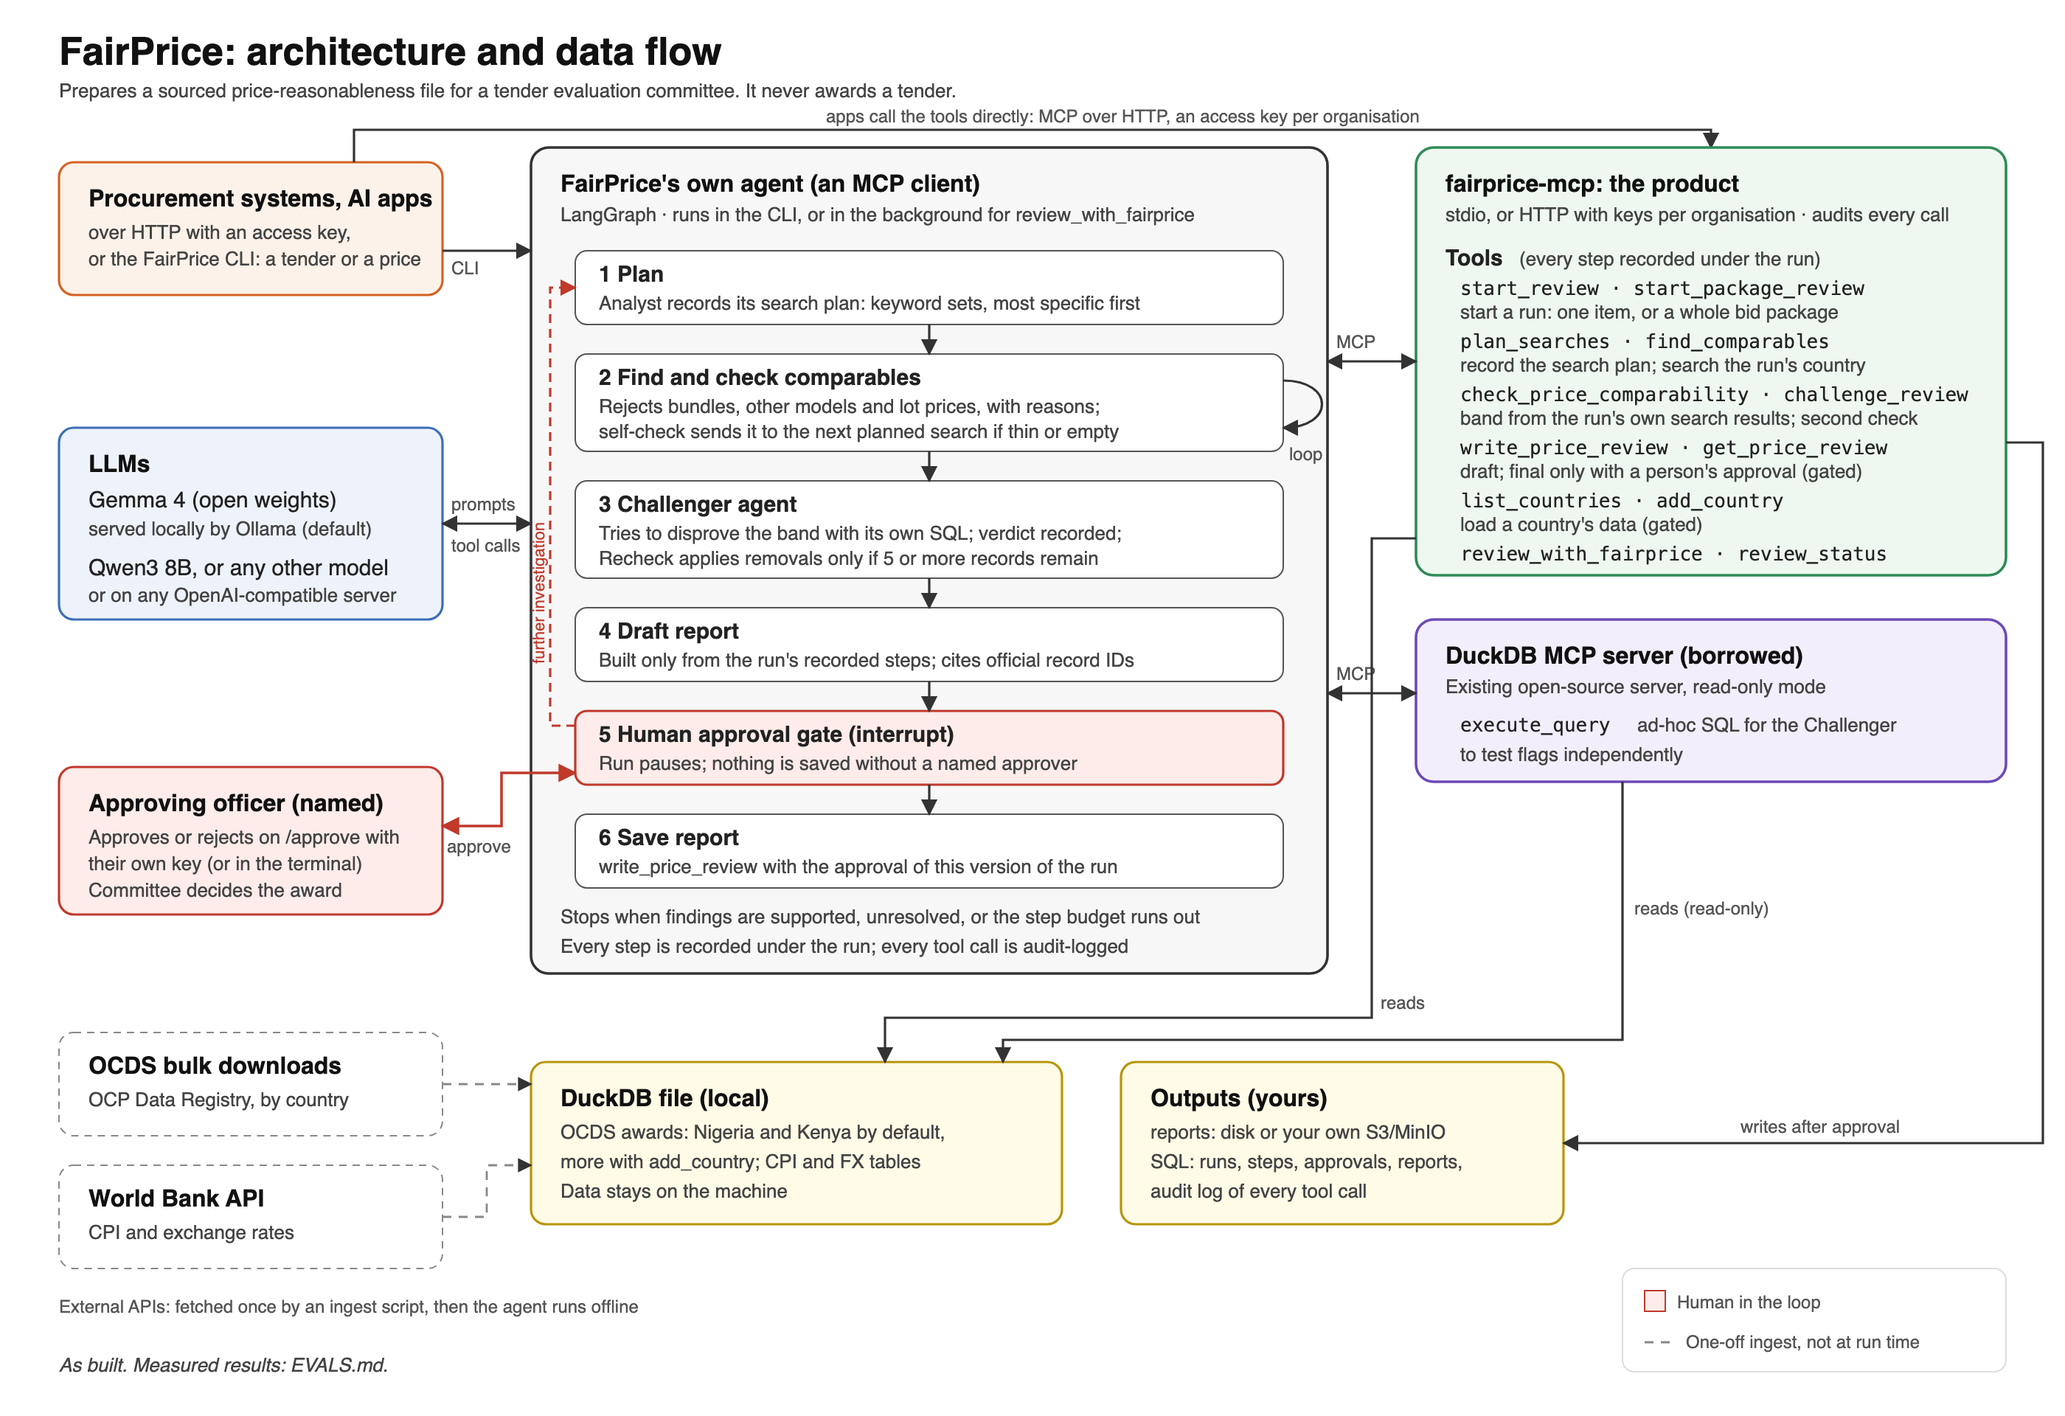
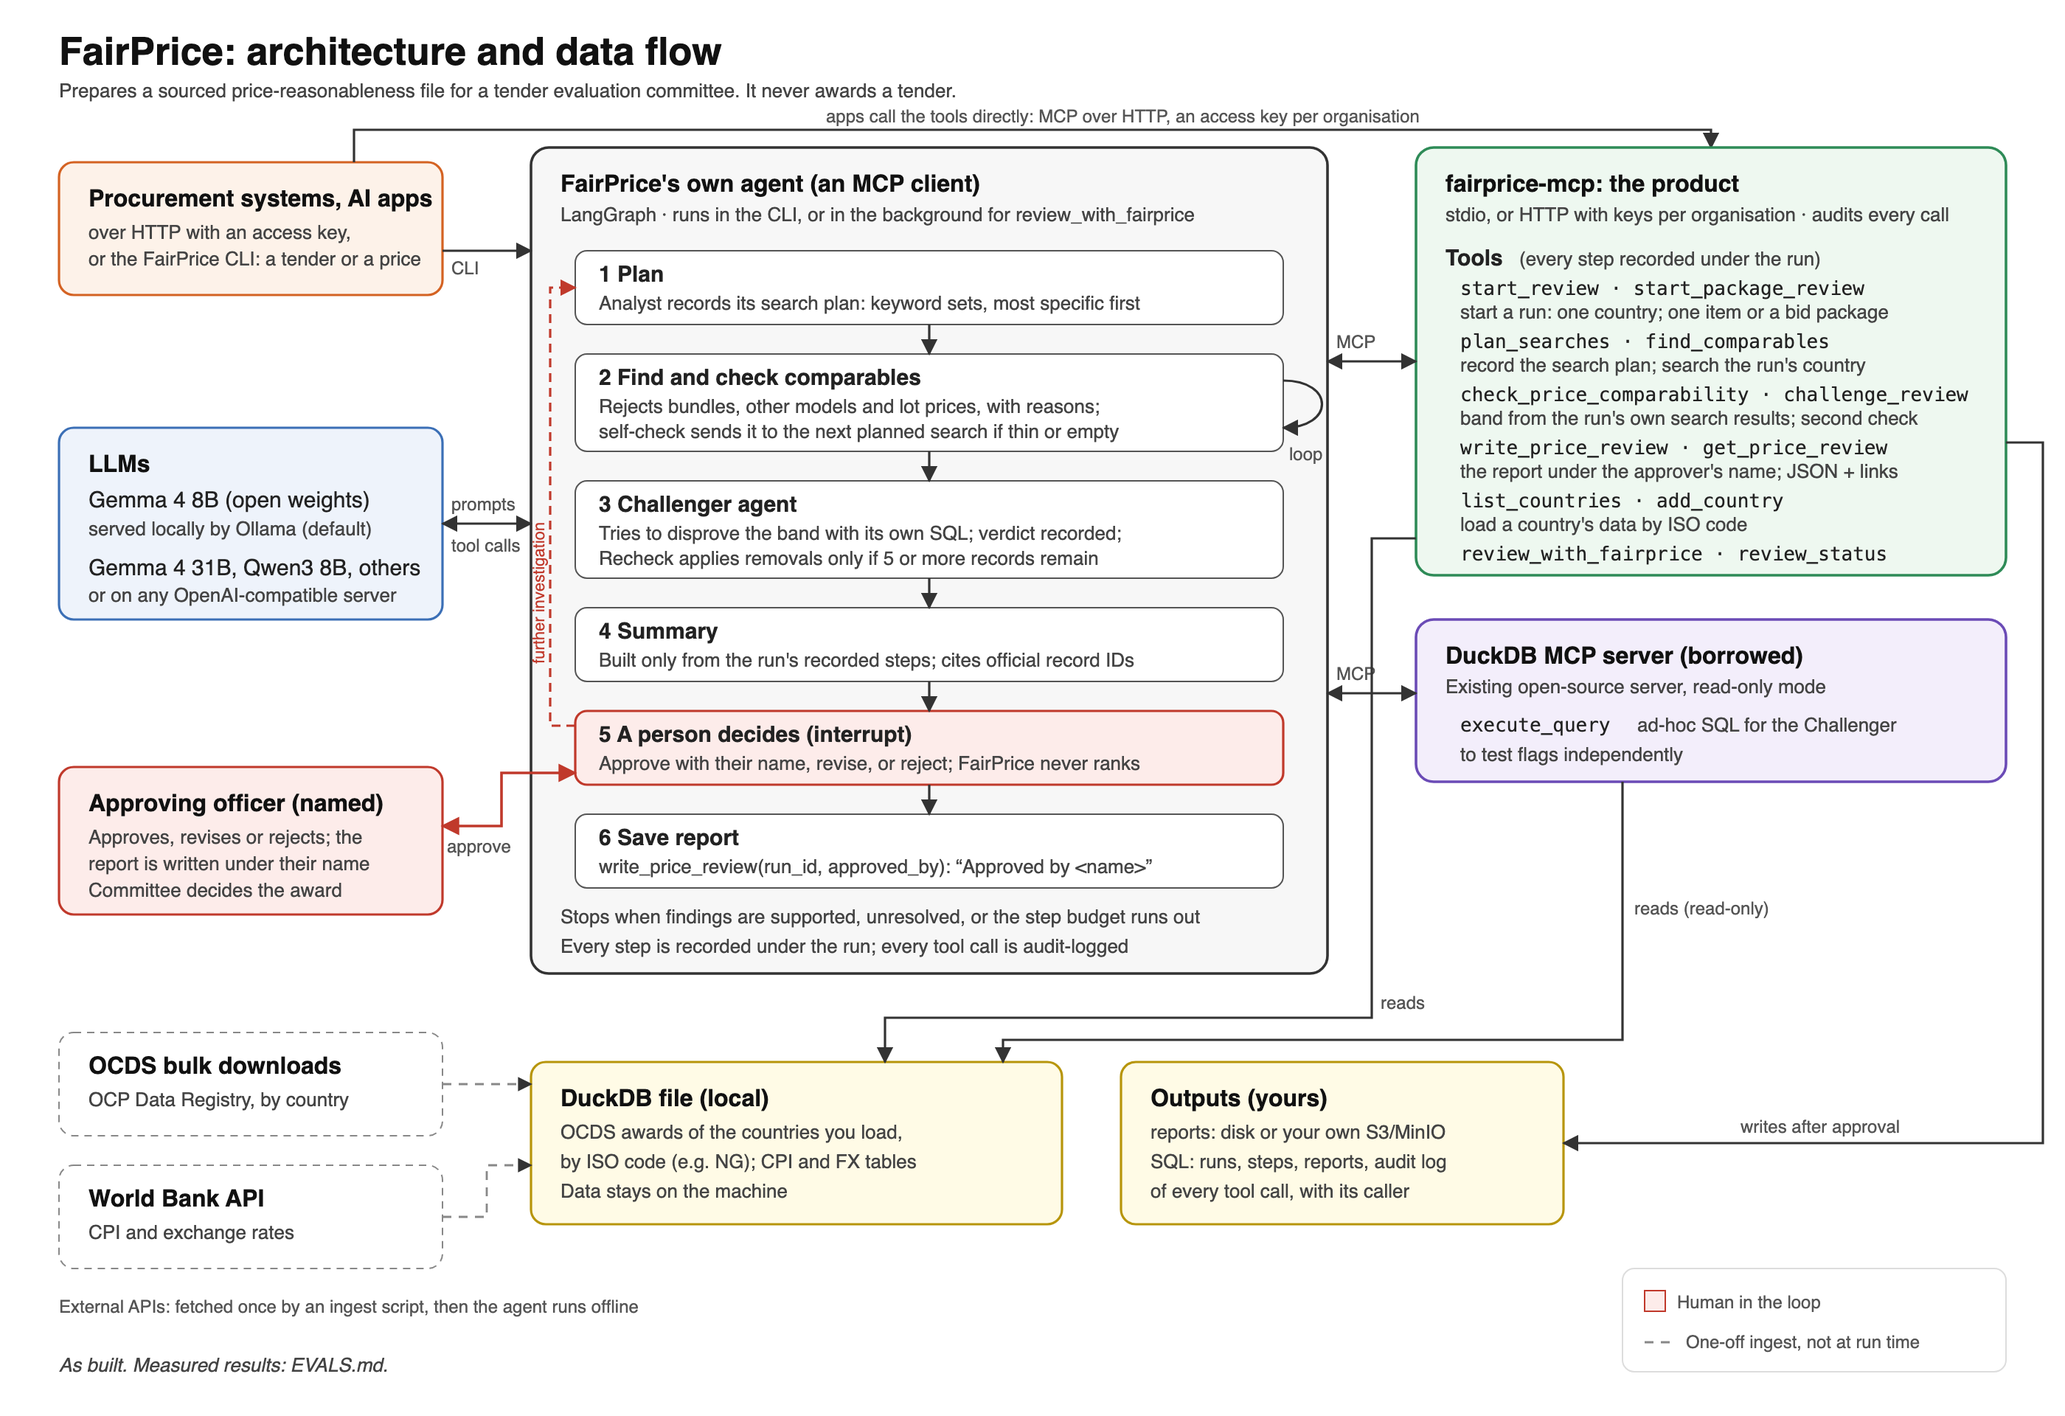
ARCHITECTURE and diagram: bring them up to date with the code
One country per run; searches over every year; 'nothing comparable' as a recorded result; the
final merged check; how a run's cost is priced; loading countries by code; the three-model
comparison with each model's size; the current approval flow (no drafts, approval page or
approver keys); the borrowed server's log file.

diff --git a/ARCHITECTURE.md b/ARCHITECTURE.md
@@ -6,10 +6,12 @@
 
 A LangGraph state graph with six nodes. Every review is one **run** (see [Runs](#runs-one-review-across-many-tool-calls)): the tools record each step under the run's id, and the report is built only from those records. LangGraph's own state is checkpointed in SQLite (`data/runs.sqlite`), so a run paused at the person's decision can be resumed later with `--resume <run id>`.
 
+**One country per run.** A run compares prices against one country's published awards, in that country's currency unless a quote says otherwise. The CLI asks which of the loaded countries to use, with the same arrow-key menu as the decision (or takes `--country`, or uses the only one loaded), and prints it: `Country: Nigeria (NG) · prices in NGN`. An app that names no country gets `FAIRPRICE_COUNTRY`, else the first country loaded.
+
 | Node | What it does | Model? |
 |---|---|---|
-| **Analyst** | First records a search plan (`plan_searches`): the keyword sets it will try, most specific first. Then searches past awards, decides which records describe the same product, rejects bundles, lot prices and different specifications with a reason, and moves to the next planned search when a search is empty or thin. | Yes |
-| **Self-check** (inside Analyst) | Sends the Analyst back if it did not plan, ran a search it never price-checked, found nothing, or stopped with a thin band or too few comparables; each time it names the next search in the Analyst's own plan. Then merges every record it kept across all checks into one final check. | No |
+| **Analyst** | First records a search plan (`plan_searches`): the keyword sets it will try, most specific first. Then searches past awards of every year (it is not offered year limits: past prices are adjusted for inflation, so all years are comparable), decides which records describe the same product, rejects bundles, lot prices and different specifications with a reason, and moves to the next planned search when a search is empty or thin. | Yes |
+| **Self-check** (inside Analyst) | Sends the Analyst back if it did not plan, ran a search it never price-checked, found nothing, or stopped with a thin band or too few comparables; each time it names the next search in the Analyst's own plan. Then makes one final price check itself, with every record the Analyst kept and every record it rejected across all its checks, so an earlier pick is never lost and a rejected record never returns. With a single check this repeats it, which is why a log can show `check_price_comparability` twice. | No |
 | **Challenger** | A second agent, with different tools, that tries to disprove the band using its own SQL. It names records to remove and gives a verdict: STANDS or DISPUTED, recorded in the run with `challenge_review`. | Yes |
 | **Recheck** | Rebuilds the band without the records the Challenger removed. | No |
 | **Summary** | Builds the summary a person reads (`report.py`) from the run's recorded steps. | No |
@@ -56,7 +58,8 @@ Everything a review needs is behind the server, so it can be deployed as a web s
 
 `start_review` (one item and its quoted price) or `start_package_review` (a bid package as JSON) creates a run and returns its `run_id`. Every other step takes that id and is recorded in the `run_steps` table: the plan, each search (its keywords and the record ids it returned), each price check (the ids judged comparable, the ids rejected with reasons, and the tool's full result), the second check, and the run's cost. A caller passes only judgements, never facts:
 
-- `check_price_comparability(run_id, candidate_ids, rejected)`: the quoted price, currency, year and country come from the run, not the caller. Ids the run's own searches never returned are left out of the band and named in the answer (`left_out`), so every record in a band was found by a recorded search, and one mistyped id does not throw away the rest (round 9).
+- `check_price_comparability(run_id, candidate_ids, rejected)`: the quoted price, currency, year and country come from the run, not the caller. Ids the run's own searches never returned are left out of the band and named in the answer (`left_out`), so every record in a band was found by a recorded search, and one mistyped id does not throw away the rest (round 9). The tool then applies the data rules itself (placeholder dates, test entries, multi-item contracts, missing quantities, values of zero or below 1, duplicates, values more than 10 times from the median), whatever the caller sent, adjusts for inflation and currency, and builds the band.
+- **"Nothing here is comparable" is a result.** A caller that rejects every record its searches found sends `candidate_ids=[]` with each record and its reason in `rejected`; the review records "insufficient comparables: 0 accepted" with those reasons, rather than ending unresolved (found by Gemma 4 31B on the MRI scanner).
 - `challenge_review(run_id, verdict, reason, objections)`: objections must name records in the line's band.
 - `write_price_review(run_id, approved_by)`: no report body is passed in. The tool builds the report from the run's steps, checks that every cited record exists, and writes it under the approver's name.
 
@@ -71,7 +74,7 @@ Where each part of agent behaviour lives, and the eval round that showed why it 
 | **Plan** | Analyst → `plan_searches` | Before searching, the Analyst records the keyword sets it will try, most specific first, and what it will reject. The plan is stored in the run and shown in the report for each line. | Round 8: whole-phrase searches found nothing and runs ended unresolved; the plan gives the recovery a next step that is the model's own. |
 | **Act** | `find_comparables`, `check_price_comparability`, and the Challenger's `execute_query` | Search, judge comparability, build the band. Code adjusts prices for inflation and currency and computes the band; the model only judges which records are the same product. | Rounds 0 to 8. |
 | **Check** | Self-check (code), Challenger (second model, different tools), Recheck (code) | The self-check refuses to finish an unchecked or thin result. The Challenger tries to disprove the band with its own SQL. Recheck applies its removals only if at least 5 records remain; otherwise they are shown as objections. | Round 1 (Challenger over-removed), round 2 (thin band from one search). |
-| **Recover** | Self-check messages; step budgets; failed-line isolation | An empty, thin or insufficient search sends the Analyst to the next search in its plan (or a one-word search if the plan is used up). Step budgets end a stuck agent as `unresolved` instead of looping. One failed package line is reported and the rest continue. Every model call has a 10-minute timeout. | Round 0 (loops), round 4 (crashed run), round 6 (a recovery message that steered to the brand), round 8 (empty searches). |
+| **Recover** | Self-check messages; step budgets; failed-line isolation; no year limits | An empty, thin or insufficient search sends the Analyst to the next search in its plan (or a one-word search if the plan is used up). Step budgets end a stuck agent as `unresolved` instead of looping. One failed package line is reported and the rest continue. Every model call has a 10-minute timeout. The Analyst's search has no year limits, because a model that narrowed every search to the review's year could not recover. | Round 0 (loops), round 4 (crashed run), round 6 (a recovery message that steered to the brand), round 8 (empty searches); a 15 October run in which Gemma 4 8B searched 2025 only and found 3 of 64 Hilux records, none usable. |
 | **Human** | The person's decision (`interrupt`); `write_price_review(approved_by)` | FairPrice never ranks, recommends or decides: it produces evidence. A person reads the summary and approves (the report is written under their name), revises (questions back to the Analyst) or rejects (nothing is written). | Every round. |
 
 **The search no longer depends on how the model groups words.** `find_comparables` matches every word of the keywords in any order, so `["hilux pickup"]`, `["pickup", "hilux"]` and `["Pickup Hilux"]` are the same search (round 8's failure).
@@ -81,6 +84,8 @@ Where each part of agent behaviour lives, and the eval round that showed why it 
 ## Data
 
 `fairprice-ingest` downloads OCDS publications from the OCP Data Registry, loads the raw JSON into DuckDB unchanged (`releases`), and flattens them into one `lines` table. It also fetches the World Bank consumer price index (`FP.CPI.TOTL`) and exchange rates (`PA.NUS.FCRF`) for every loaded country. After that, the agent runs offline.
+
+**Nothing is loaded until a country is chosen.** The ingest always takes a country code (`fairprice-ingest --add NG`; `--list` shows all 72 countries on the registry and their codes; `--rebuild` rebuilds from the files already downloaded), and a run with no country loaded stops with that instruction instead of downloading anything.
 
 **Adding a country** (`fairprice-ingest --add RW`, or the MCP tool `add_country`) loads every publication the country has on the registry. The registry has no API, so the ingest reads its search page, where each publication has a flag image named with its ISO country code, a "Country: Publisher" title and an id. A country's publications are downloaded unchanged and joined end to end into one file per country (`data/raw/nigeria.jsonl.gz`); joined gzip files read back as one. `data/raw/manifest.json` records which publications each file holds and in what order, so a rebuild needs no network. Records are told apart by their OCID prefix, which each publisher registers once (`ocds-gyl66f` is the federal BPP, `ocds-zinqhl` is Ebonyi State). The `sources` table records each publication's registry title (used as "Published by" in reports), its currency (the most common currency in its awards), and how it is read:
 
@@ -103,20 +108,30 @@ Where each part of agent behaviour lives, and the eval round that showed why it 
 
 The brief says the data will not be cleaned for us, and that handling it is most of criterion one. FairPrice uses the data as published and handles each problem in code, with a reason the committee can read. The table of problems, how often each occurs in the Nigerian and Kenyan data, and what FairPrice does is in the README: [Data quality](README.md#data-quality-what-the-published-data-gets-wrong-and-what-fairprice-does). In code: `server.data_flags` (record flags), `server.price_band` (duplicates, extreme values, inflation and currency), `ingest.TABLES_SQL` (buyer names).
 
-
-
 ## Models
 
-The default is **Gemma 4 8B** (open weights) through Ollama, run locally with thinking mode off and a 4,096-token output cap. We started with Qwen3 8B, as planned, but switched after the evals. On the same code, Gemma 4 passed 17 of 18 single-item runs at about 2 minutes each. Qwen3 8B passed 12 of 18, kept letting bundles into the band, and averaged 6 minutes per run. On the latest code (round 7), Gemma 4 passes 16 of 18 single-item runs and 2 of 2 bid-package runs; the two failures kept a Prado-and-Hilux bundle in the band with the right verdict (EVALS.md). With thinking on, at temperature 0, Qwen3 once looped for over an hour before its first tool call. Any model that `langchain.init_chat_model` supports can be swapped in with `FAIRPRICE_MODEL`.
+The default is **Gemma 4 8B** (open weights) through Ollama, run on the buyer's own machine with thinking mode off and a 4,096-token output cap: no fees, and no bid prices leave the machine. Any model that `langchain.init_chat_model` supports can be swapped in with `FAIRPRICE_MODEL`, including any OpenAI-compatible server (`FAIRPRICE_MODEL_URL`), such as OpenRouter.
+
+We evaluated three open-weights models on the same tasks ([EVALS.md](EVALS.md#three-models-on-the-same-tasks)):
+
+| Model | Single items | Bid package | Time per item | Cost per round |
+|---|---|---|---|---|
+| Gemma 4 31B (OpenRouter) | 17/18 | 1/2 | 41 s | $0.18 |
+| Qwen3 8B (Ollama, older code) | 12/18 | not run | 359 s | not recorded |
+| Gemma 4 8B (Ollama, the default) | 14/18 | 2/2 | 102 s | $0.00 |
+
+Gemma 4 31B fixes the bundle failures that both 8B models have; Qwen3 8B let bundles into the band on every Hilux run and was three times slower than Gemma 4 8B, which is why the default is Gemma 4 8B. With thinking on, at temperature 0, Qwen3 8B once looped for over an hour before its first tool call.
 
 ## Audit
 
-Every call to FairPrice's server is audited by the server itself, whoever makes it: a row in the `audit_log` table with inputs, outputs, timing, run id, organisation and caller. The CLI logs its calls to the borrowed DuckDB server the same way. Human decisions (including the approver's name) and run starts and finishes are logged the same way, and the run's own steps are in `run_steps`. `uv run fairprice --audit <run id>` prints a run's log in time order.
+Every call to FairPrice's server is audited by the server itself, whoever makes it: a row in the `audit_log` table with inputs, outputs, timing, run id, organisation and caller. The CLI logs its calls to the borrowed DuckDB server the same way (that server's own start-up messages go to `data/duckdb-server.log`, not the screen). Human decisions (including the approver's name) and run starts and finishes are logged the same way, and the run's own steps are in `run_steps`. `uv run fairprice --audit <run id>` prints a run's log in time order.
 
 The `runs` and `run_steps` tables hold every review and each step it recorded. The `reports` table holds one row per report: its name, run id, format, files, approver, dates, and the report itself as JSON (summary, prices and sources). The report files are the deliverable a committee opens; the table is the record that tools read.
+
+**What each run cost.** A callback counts model calls, tokens and model time. Each run is priced as the model that ran, using OpenRouter's public price list (no key needed; cached in `data/model-prices.json`, refreshed weekly): an API model's fee, or for a model on the buyer's machine, what the same tokens would cost on the closest hosted model (Gemma 4 8B is priced as Gemma 4 26B, the smallest Gemma 4 on OpenRouter), shown as the saving: `API fees $0.00 (local model)($0.0029 saved)`. A negotiated price can override the list. The figures are stored in the report (`report.cost`) and the audit log.
 
 These tables are written through SQLAlchemy (`db.py`), so `FAIRPRICE_SQL_URL` can point them at Postgres, MySQL or another database instead of the default SQLite file. We have tested it on SQLite only. LangGraph's run state (used by `--resume`) stays in SQLite. LangGraph has a Postgres checkpointer if that ever needs to move too.
 
 ## Report storage
 
-`storage.py` keeps reports on the local disk by default, or in S3-compatible object storage (`FAIRPRICE_STORAGE=s3`) when several servers need to share them or reports need backing up with the rest of an organisation's files. Disk space is not the reason: a report is 10 to 20 KB. The intended deployment is MinIO on the organisation's own servers. Reports can contain bidders' prices from an evaluation in progress, which are commercially confidential. Keep them inside your own organisation and jurisdiction: on this computer (the default), or in object storage you run yourself, such as MinIO on your own servers. Use a cloud provider only if your procurement and data rules allow it. Both providers have the same four operations (save, load, delete, list), and report names cannot contain folders, so a name can never point outside the store. The draft, approval and retrieval cycle is tested on both providers in the eval suite, using a mocked S3 bucket (`moto`) for S3.
+`storage.py` keeps reports on the local disk by default, or in S3-compatible object storage (`FAIRPRICE_STORAGE=s3`) when several servers need to share them or reports need backing up with the rest of an organisation's files. Disk space is not the reason: a report is 10 to 20 KB. The intended deployment is MinIO on the organisation's own servers. Reports can contain bidders' prices from an evaluation in progress, which are commercially confidential. Keep them inside your own organisation and jurisdiction: on this computer (the default), or in object storage you run yourself, such as MinIO on your own servers. Use a cloud provider only if your procurement and data rules allow it. Both providers have the same four operations (save, load, delete, list), and report names cannot contain folders, so a name can never point outside the store. Writing a report under the approver's name and retrieving it is tested on both providers in the eval suite, using a mocked S3 bucket (`moto`) for S3.
